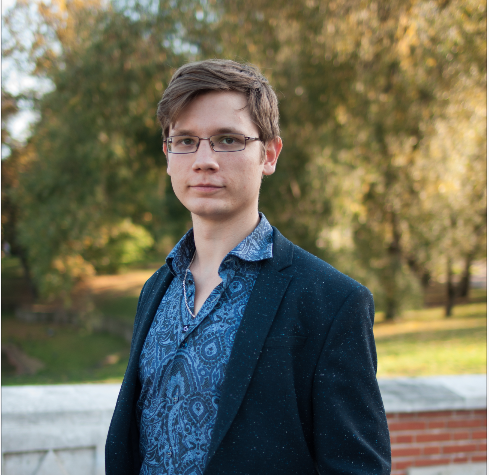
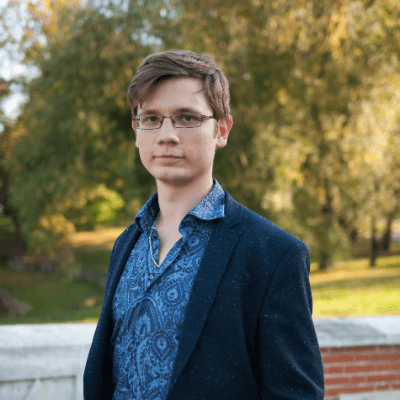
fix resize and convert photos

diff --git a/src/containers/AboutContainer.js b/src/containers/AboutContainer.js
@@ -15,7 +15,7 @@ const founders = [
     name: 'Alex Fork',
     position: 'Head of Humaniq',
     bio: 'Humaniq founder and Fintech entrepreneur Alex is one of the most important members of the international Blockchain community, who has worked with the UN to lead the deployment of Blockchain technology to improve the efficiency of UN resources and remittances. He has also spearheaded the harnessing of blockchains in Russia, organising a conference for 500 participants on the Ethereum Blockchain; authoring Bitcoin. More than Just Money; and founding the Fintech accelerator for startups in Russia, Future Fintech. He started Humaniq to help lift the global banked out of poverty.',
-    imgSrc: `${imgPath}/alex_fork.jpg`
+    imgSrc: `${imgPath}/alex_fork.png`
   },
   {
     name: 'Dinis Guarda',
@@ -186,7 +186,7 @@ const team = [
     name: 'Lee Baker',
     position: 'Writer',
     bio: 'Lee has a background in both communications and community organising and loves story-telling to inspire positive action and to connect with others to change things for the better. He wants to unleash the power of the collaborative economy and help everyone to put their destinies into their own hands.',
-    imgSrc: `${imgPath}/lee_baker.jpg`
+    imgSrc: `${imgPath}/lee_baker.png`
   },
   {
     name: 'Olga Derbio',

diff --git a/src/components/SE_About/index.js b/src/components/SE_About/index.js
@@ -58,7 +58,7 @@ class SE_About extends Component {
 
   getTeam(entities) {
 
-    let _renderedTeam = entities.map(({name, bio, imgSrc}) => {
+    let _renderedTeam = entities.map(({name, bio, imgSrc, position}) => {
       const kebabName = convert.toCleanKebab(name)
       let tooltipPlace;
       if (
@@ -71,10 +71,7 @@ class SE_About extends Component {
         tooltipPlace = 'right'
       }
 
-      if(this.nodes.default && this.nodes[kebabName]){
-        console.log (kebabName, (this.nodes.default.getBoundingClientRect().right - this.nodes[kebabName].getBoundingClientRect().right < 200))
-      }
-      console.l
+
       return (
         <div
           className={cn('team-member')}
@@ -89,6 +86,7 @@ class SE_About extends Component {
           <span className={cn('tooltip', {type: tooltipPlace})}>
             <M_Tooltip type={tooltipPlace} size="wide">
               <A_H type='tooltip'>{name}</A_H>
+              <A_H type='tooltip-sub'>{position}</A_H>
               <span dangerouslySetInnerHTML={{__html: bio}}/>
             </M_Tooltip>
           </span>
